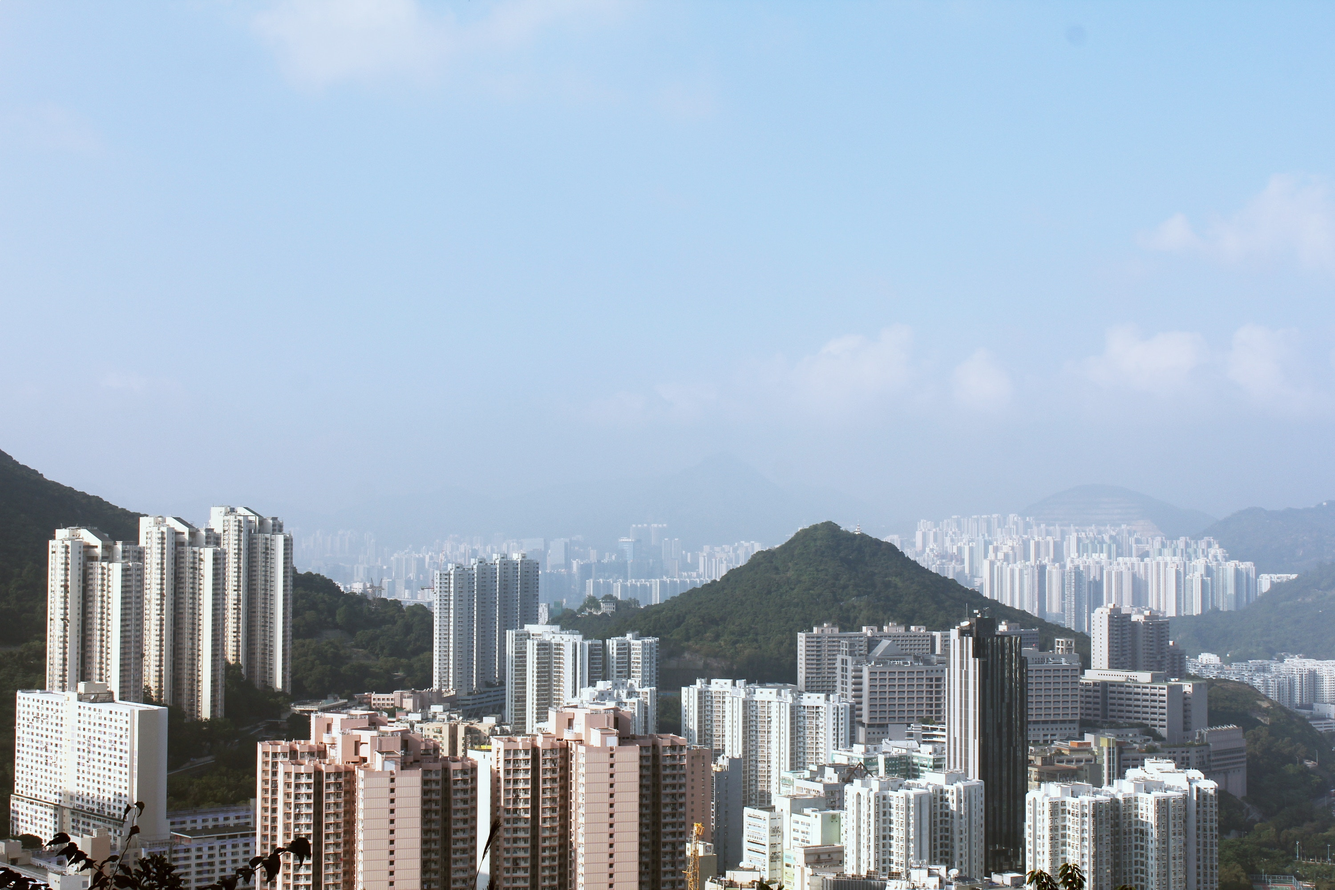
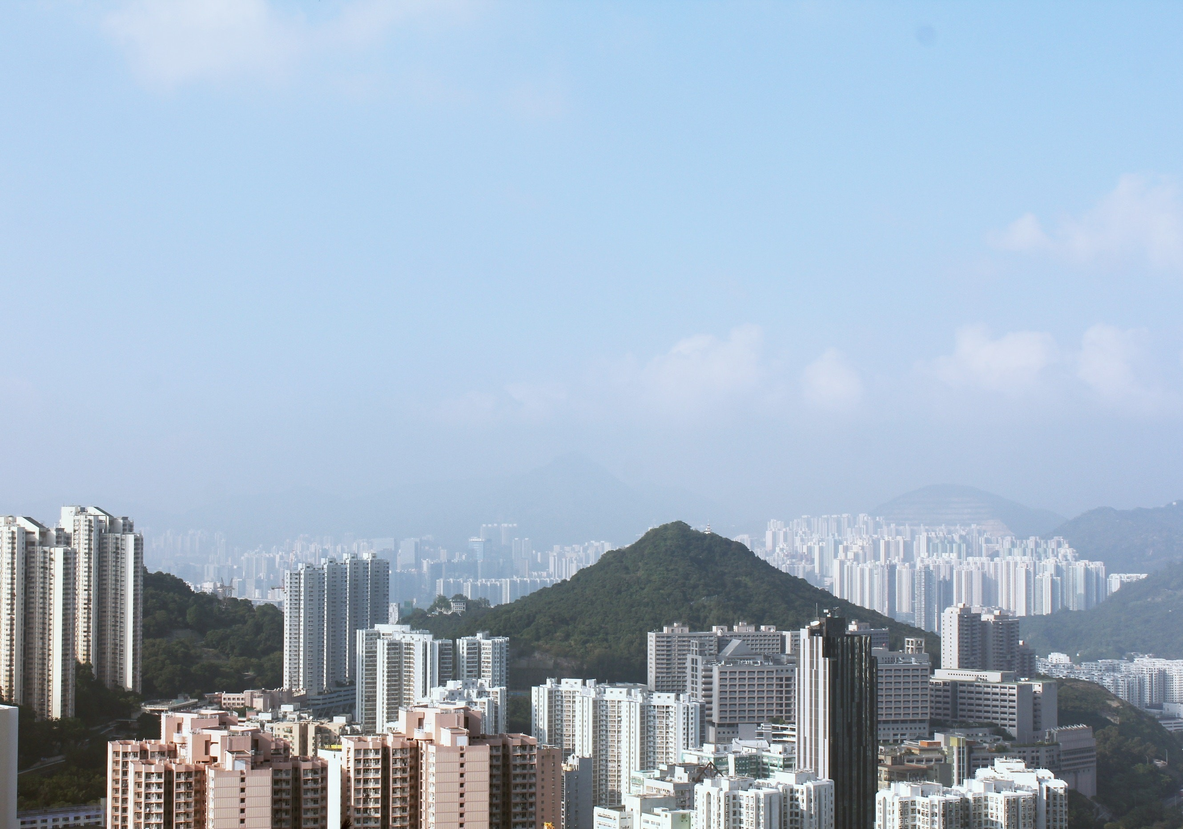
Personal page updated

diff --git a/index.html b/index.html
@@ -22,7 +22,7 @@
                 <h5 class="text-right">I am a computer science student at Uppsala University, Sweden. You can follow me on Github or contact me via LinkedIn</h5>
             </div>
             <div class="col">
-                <img src="img/city2.jpg" id="bg">
+                <img src="img/city.jpg" id="bg">
                 <h3><a href="https://github.com/viktor-enzell">Github page</a></h3>
                 <h3><a href="https://www.linkedin.com/in/viktor-enzell-66967913b/">LinkedIn page</a></h3>
             </div>
